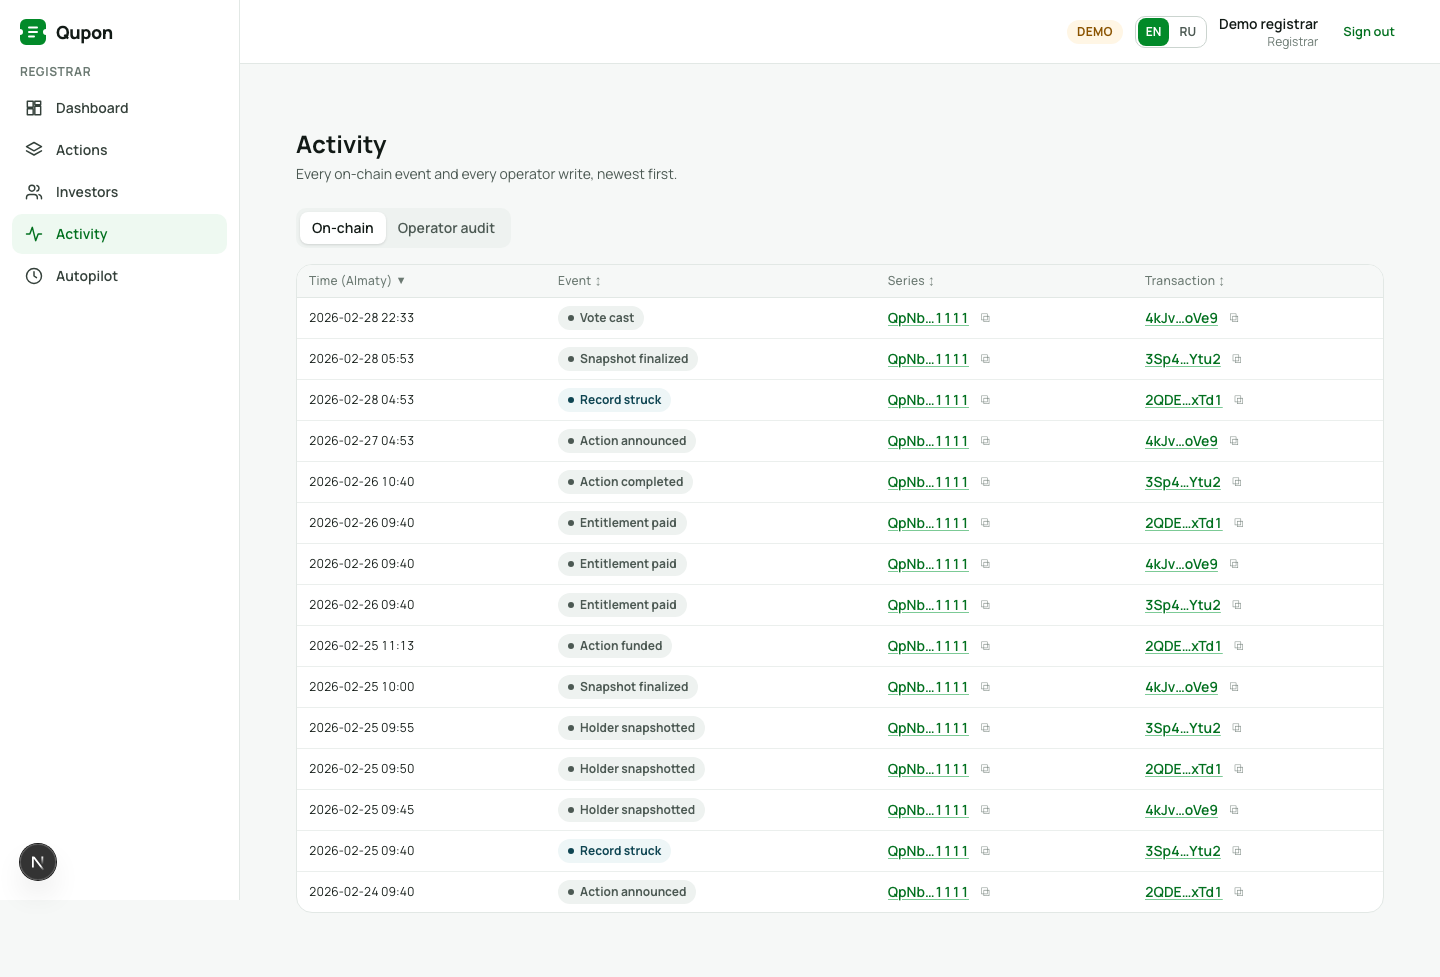
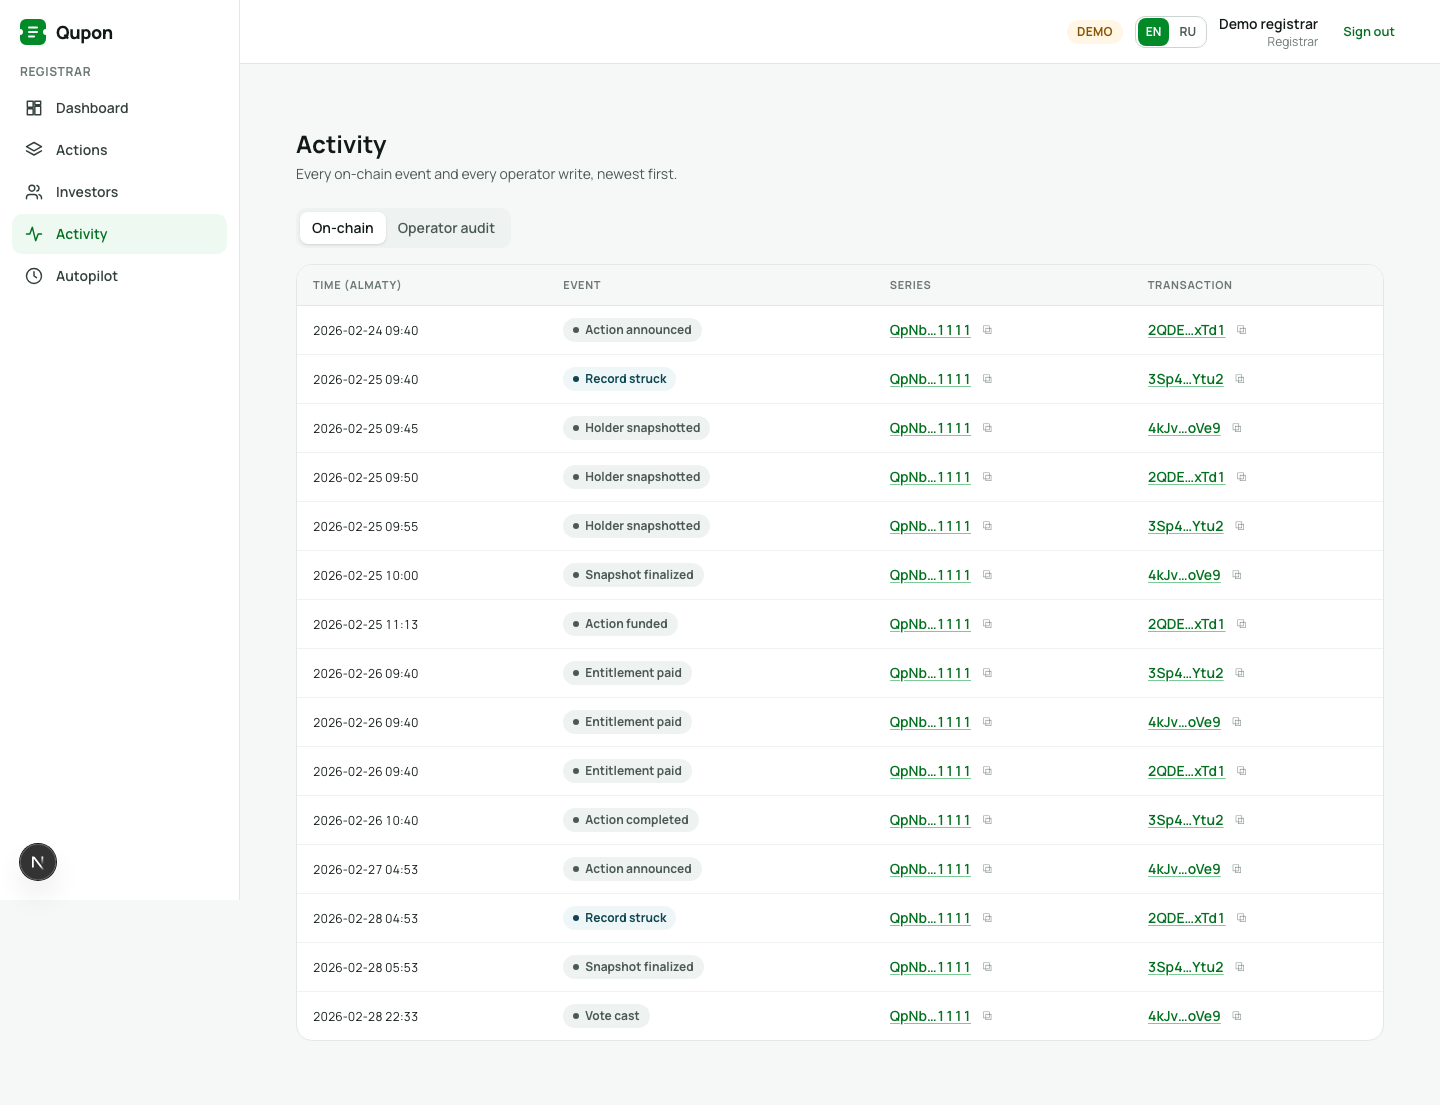
fix(web): adapt activity/autopilot tables to the responsive DataTable from 107
Rebase conflict on components/ui/DataTable.tsx resolved by keeping main's
presentational responsive table (render-only columns, hideBelow, mobile
cards); my column defs drop value/mono/initialSort and style code cells
explicitly. New DataTable already renders newest-first server data.

task: 305

diff --git a/apps/web/src/app/(cabinet)/registrar/_components/Approvals.tsx b/apps/web/src/app/(cabinet)/registrar/_components/Approvals.tsx
@@ -8,16 +8,19 @@ import { Address } from "@/components/ui/Address";
 import { Button } from "@/components/ui/Button";
 import { DataTable, type Column } from "@/components/ui/DataTable";
 import { Tabs } from "@/components/ui/Tabs";
-import { boPost } from "@/lib/boClient";
 import type { Schemas } from "@/lib/api";
+import { boPost } from "@/lib/boClient";
 import { formatDateTime } from "@/lib/format";
 import { useRunWrite } from "@/lib/useRunWrite";
 
 type Approval = Schemas["Approval"];
 type ApproveResult = { signature?: string | null; signatures?: string[] };
 
-const almaty = (unixSeconds: number) =>
-  formatDateTime(new Date(unixSeconds * 1000).toISOString());
+const almaty = (unixSeconds: number) => (
+  <span className="num text-xs whitespace-nowrap">
+    {formatDateTime(new Date(unixSeconds * 1000).toISOString())}
+  </span>
+);
 
 /** One scheduler proposal: what the autopilot wants to run next. */
 export function Approvals({
@@ -37,7 +40,8 @@ export function Approvals({
     const r = await runWrite<ApproveResult>({
       pending: t("approving"),
       success: () => t("approved"),
-      call: () => boPost<ApproveResult>(`registrar/approvals/${row.id}/approve`),
+      call: () =>
+        boPost<ApproveResult>(`registrar/approvals/${row.id}/approve`),
       txs: (res) =>
         res.signatures ?? (res.signature ? [res.signature] : []),
     });
@@ -54,24 +58,20 @@ export function Approvals({
     );
   };
 
+  const code = (text: string) => (
+    <span className="text-xs break-all">{text}</span>
+  );
+
   const pendingCols: Column<Approval>[] = [
-    {
-      key: "ts",
-      header: t("time"),
-      value: (r) => r.ts,
-      render: (r) => almaty(r.ts),
-      mono: true,
-    },
+    { key: "ts", header: t("time"), render: (r) => almaty(r.ts) },
     {
       key: "series",
       header: t("series"),
-      value: (r) => r.seriesMint,
       render: (r) => <Address value={r.seriesMint} />,
     },
     {
       key: "action",
       header: t("action"),
-      value: (r) => r.actionPda ?? "",
       render: (r) =>
         r.actionPda ? (
           <Link
@@ -83,14 +83,12 @@ export function Approvals({
         ) : (
           "—"
         ),
-      mono: true,
     },
-    { key: "step", header: t("step"), value: (r) => r.step, mono: true },
-    { key: "argv", header: t("argv"), value: (r) => r.args.join(" "), render: argv },
+    { key: "step", header: t("step"), render: (r) => code(r.step) },
+    { key: "argv", header: t("argv"), render: argv },
     {
       key: "approve",
       header: "",
-      value: (r) => r.id,
       render: (r) => (
         <Button
           size="sm"
@@ -105,32 +103,22 @@ export function Approvals({
   ];
 
   const executedCols: Column<Approval>[] = [
-    {
-      key: "ts",
-      header: t("time"),
-      value: (r) => r.ts,
-      render: (r) => almaty(r.ts),
-      mono: true,
-    },
+    { key: "ts", header: t("time"), render: (r) => almaty(r.ts) },
     {
       key: "series",
       header: t("series"),
-      value: (r) => r.seriesMint,
       render: (r) => <Address value={r.seriesMint} />,
     },
     {
       key: "action",
       header: t("action"),
-      value: (r) => r.actionPda ?? "",
       render: (r) => (r.actionPda ? <Address value={r.actionPda} /> : "—"),
-      mono: true,
     },
-    { key: "step", header: t("step"), value: (r) => r.step, mono: true },
-    { key: "argv", header: t("argv"), value: (r) => r.args.join(" "), render: argv },
+    { key: "step", header: t("step"), render: (r) => code(r.step) },
+    { key: "argv", header: t("argv"), render: argv },
     {
       key: "tx",
       header: t("tx"),
-      value: (r) => (r.detail as { signature?: string } | null)?.signature ?? "",
       render: (r) => {
         const sig = (r.detail as { signature?: string } | null)?.signature;
         return sig ? <Address value={sig} kind="tx" /> : "—";
@@ -149,7 +137,6 @@ export function Approvals({
               columns={pendingCols}
               rows={pending}
               rowKey={(r) => String(r.id)}
-              initialSort={{ key: "ts", dir: "desc" }}
               empty={t("emptyPending")}
             />
           ),
@@ -162,7 +149,6 @@ export function Approvals({
               columns={executedCols}
               rows={executed}
               rowKey={(r) => String(r.id)}
-              initialSort={{ key: "ts", dir: "desc" }}
               empty={t("emptyExecuted")}
             />
           ),

diff --git a/apps/web/src/app/(cabinet)/registrar/_components/ActivityTabs.tsx b/apps/web/src/app/(cabinet)/registrar/_components/ActivityTabs.tsx
@@ -21,8 +21,11 @@ export type AuditItem = {
   signatures?: string[] | null;
 };
 
-const almaty = (unixSeconds: number) =>
-  formatDateTime(new Date(unixSeconds * 1000).toISOString());
+const almaty = (unixSeconds: number) => (
+  <span className="num text-xs whitespace-nowrap">
+    {formatDateTime(new Date(unixSeconds * 1000).toISOString())}
+  </span>
+);
 
 const dash = "—";
 
@@ -38,60 +41,48 @@ export function ActivityTabs({
   const roles = useTranslations("cabinet.roles");
 
   const eventCols: Column<ActivityLike>[] = [
-    {
-      key: "ts",
-      header: t("time"),
-      value: (r) => r.ts,
-      render: (r) => almaty(r.ts),
-      mono: true,
-    },
+    { key: "ts", header: t("time"), render: (r) => almaty(r.ts) },
     {
       key: "kind",
       header: t("kind"),
-      value: (r) => r.kind,
       render: (r) => <Badge status={r.kind} />,
     },
     {
       key: "series",
       header: t("series"),
-      value: (r) => r.seriesMint ?? "",
       render: (r) => (r.seriesMint ? <Address value={r.seriesMint} /> : dash),
     },
     {
       key: "sig",
       header: t("tx"),
-      value: (r) => r.sig,
       render: (r) => (r.sig ? <Address value={r.sig} kind="tx" /> : dash),
     },
   ];
 
   const auditCols: Column<AuditItem>[] = [
-    {
-      key: "ts",
-      header: t("time"),
-      value: (r) => r.ts,
-      render: (r) => almaty(r.ts),
-      mono: true,
-    },
+    { key: "ts", header: t("time"), render: (r) => almaty(r.ts) },
     {
       key: "user",
       header: t("user"),
-      value: (r) => r.userId,
       render: (r) => (
-        <span>
+        <span className="num text-xs">
           #{r.userId}
-          <span className="ml-2 text-xs text-n500">
+          <span className="ml-2 text-n500">
             {roles.has(r.role) ? roles(r.role) : r.role}
           </span>
         </span>
       ),
-      mono: true,
     },
-    { key: "route", header: t("route"), value: (r) => r.route, mono: true },
+    {
+      key: "route",
+      header: t("route"),
+      render: (r) => (
+        <span className="text-xs break-all">{r.route}</span>
+      ),
+    },
     {
       key: "ok",
       header: t("result"),
-      value: (r) => (r.ok ? 1 : 0),
       render: (r) =>
         r.ok ? (
           <Badge tone="success">{t("ok")}</Badge>
@@ -102,7 +93,6 @@ export function ActivityTabs({
     {
       key: "sigs",
       header: t("signatures"),
-      value: (r) => r.signatures?.length ?? 0,
       render: (r) =>
         r.signatures && r.signatures.length > 0 ? (
           <span className="flex flex-wrap gap-x-3 gap-y-1">
@@ -127,7 +117,6 @@ export function ActivityTabs({
               columns={eventCols}
               rows={events}
               rowKey={(r) => String(r.id)}
-              initialSort={{ key: "ts", dir: "desc" }}
               empty={t("emptyEvents")}
             />
           ),
@@ -140,7 +129,6 @@ export function ActivityTabs({
               columns={auditCols}
               rows={audit}
               rowKey={(r) => String(r.id)}
-              initialSort={{ key: "ts", dir: "desc" }}
               empty={t("emptyAudit")}
             />
           ),

diff --git a/reports/worklog/305.md b/reports/worklog/305.md
@@ -3,7 +3,7 @@
 **What changed**
 - `apps/web/src/app/(cabinet)/registrar/activity/page.tsx` + `_components/ActivityTabs.tsx`: Tabs On-chain (`listActivity`, kind Badge / series / tx Address / Almaty time) · Operator audit (`boFetch GET /registrar/audit`: user#id + role, route, ok/fail Badge, signature Addresses), warn banner when the audit feed is unreachable.
 - `apps/web/src/app/(cabinet)/registrar/autopilot/page.tsx` + `_components/Approvals.tsx`: Pending/Executed Tabs over `GET /approvals?status=`; Approve button → `runWrite` → `boPost registrar/approvals/{id}/approve` → toast with explorer link + `router.refresh()`.
-- Restyled `components/ui/DataTable.tsx` to light design tokens (was dark-only; every cabinet page needs it — 107's /bonds builds on it too). Mock fixtures for `/registrar/audit` + `/approvals` (incl. the Task-3 onboarding audit row).
+- Restyled `components/ui/DataTable.tsx` to light design tokens (was dark-only; every cabinet page needs it). Superseded during `git rebase main`: 107 landed a full responsive rewrite — conflict resolved by keeping main's table and adapting my column defs to its `render`-only API. Mock fixtures for `/registrar/audit` + `/approvals` (incl. the Task-3 onboarding audit row).
 - Messages `registrar.activity.*` / `registrar.autopilot.*` EN + RU; e2e `e2e/registrar-activity.spec.ts` green with screenshots.
 
 **Decisions / deviations**
